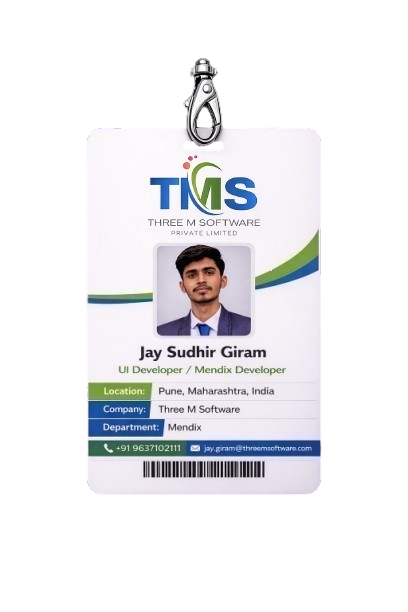
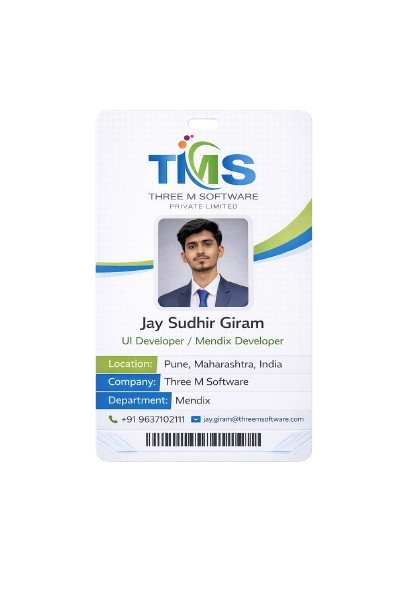
code update for the lanyard

Changed region(s): [[0.2059, 0.0931, 0.7941, 0.8072]]

diff --git a/src/app/layout/hero-lanyard/hero-lanyard.component.ts b/src/app/layout/hero-lanyard/hero-lanyard.component.ts
@@ -21,6 +21,7 @@ export class HeroLanyardComponent implements AfterViewInit {
   camera!: THREE.PerspectiveCamera
   renderer!: THREE.WebGLRenderer
   lanyardMaterial!: THREE.MeshStandardMaterial
+  triangle!: THREE.Mesh
   card!: THREE.Mesh
   cardGroup!: THREE.Group
   ropeLine!: THREE.Mesh
@@ -81,7 +82,7 @@ export class HeroLanyardComponent implements AfterViewInit {
 
     /* CARD */
 
-    const cardGeo = new THREE.BoxGeometry(2.4, 3.4, 0.04)
+    const cardGeo = new THREE.BoxGeometry(2.9, 3.4, 0.04)
 
     const texture = new THREE.TextureLoader().load(
       'assets/lanyard/card.png'
@@ -105,23 +106,25 @@ export class HeroLanyardComponent implements AfterViewInit {
     this.card = new THREE.Mesh(cardGeo, cardMat)
 
     this.cardGroup = new THREE.Group()
-
+    this.card.rotation.y = Math.PI
     this.cardGroup.add(this.card)
 
     // move card DOWN inside group so top becomes pivot
-    this.card.position.y = -1.4
+    this.card.position.set(0, -0.3, 0)
 
-    this.scene.add(this.cardGroup)
+    this.cardGroup.position.set(0, -1.2, 0.05)
 
     /* GLARE */
 
-    const glareGeo = new THREE.PlaneGeometry(1.7, 2.2)
+    const glareGeo = new THREE.PlaneGeometry(1.7, 2)
 
     const glareMat = new THREE.MeshBasicMaterial({
       color: 0xffffff,
       transparent: true,
-      opacity: 0.08,
+      opacity: 0.09,
       blending: THREE.AdditiveBlending
+
+
     })
 
     const glare = new THREE.Mesh(glareGeo, glareMat)
@@ -130,16 +133,51 @@ export class HeroLanyardComponent implements AfterViewInit {
     this.card.add(glare)
 
 
+    // 🔺 METAL TRIANGLE CONNECTOR
+
+    const triangleShape = new THREE.Shape()
+
+    triangleShape.moveTo(0, -0.3)      // 🔻 bottom tip
+    triangleShape.lineTo(-0.3, 0.25)   // left
+    triangleShape.lineTo(0.3, 0.25)    // right
+    triangleShape.lineTo(0, -0.3)      // close
+    const extrudeSettings = {
+      depth: 0.02,
+      bevelEnabled: true,
+      bevelThickness: 0.02,
+      bevelSize: 0.02,
+      bevelSegments: 2
+
+    }
+
+    const triangleGeo = new THREE.ShapeGeometry(triangleShape)
+
+    const metalMat = new THREE.MeshPhysicalMaterial({
+      color: 0xc0c0c0,
+      metalness: 1,
+      roughness: 0.25,
+      clearcoat: 1,
+      clearcoatRoughness: 0.1
+    })
+
+    this.triangle = new THREE.Mesh(triangleGeo, metalMat)
+    this.triangle.scale.set(0.7, 0.7, 0.7)
+
+    // add to scene
+    this.scene.add(this.triangle)
+    this.triangle.add(this.cardGroup)
+    this.triangle.rotation.z = Math.PI
+
   }
 
   initRope() {
 
     this.points = []
-  
+
     for (let i = 0; i <= this.segments; i++) {
-  
+
       const y = 2 - (i * this.segmentLength)
-  
+
       this.points.push({
         x: 0,
         y: y,
@@ -147,40 +185,45 @@ export class HeroLanyardComponent implements AfterViewInit {
         oldy: y
       })
     }
-  
+
     // ✅ CREATE FABRIC MATERIAL ONLY ONCE
     const loader = new THREE.TextureLoader()
 
     const texture = loader.load('assets/lanyard/lanyard-texture.png')
     const normalMap = loader.load('assets/lanyard/lanyard-normal.png')
-    
+
     texture.colorSpace = THREE.SRGBColorSpace
-    
+
     texture.wrapS = texture.wrapT = THREE.RepeatWrapping
     normalMap.wrapS = normalMap.wrapT = THREE.RepeatWrapping
-    
+
     texture.repeat.set(1, 3)
     normalMap.repeat.set(1, 10)
-    
+
     this.lanyardMaterial = new THREE.MeshPhysicalMaterial({
       map: texture,
       normalMap: normalMap,
-    
+
       normalScale: new THREE.Vector2(0.35, 0.35),
-    
+
       roughness: 0.85,
       metalness: 0.05,
-    
+
       clearcoat: 0.3,
       clearcoatRoughness: 0.6,
-    
+
       sheen: 1,                     // 🔥 FABRIC MAGIC
       sheenRoughness: 0.8,
       sheenColor: new THREE.Color(0xffffff),
-    
+
       side: THREE.DoubleSide
-    
+
     })
+
+    const ambient = new THREE.AmbientLight(0xffffff, 0.6)
+    this.scene.add(ambient)
+
+
   }
 
   updateMouse(event: MouseEvent) {
@@ -277,78 +320,96 @@ export class HeroLanyardComponent implements AfterViewInit {
     }
 
   }
-  
+
   updateRopeMesh() {
 
     const vertices: number[] = []
     const uvs: number[] = []
-    const width = 0.18
-  
-    for (let i = 0; i < this.points.length; i++) {
-  
-      const p = this.points[i]
-      const next = this.points[i + 1] || p
-  
+
+    // slightly thinner = more realistic
+    const baseWidth = 0.14
+
+    const curve = new THREE.CatmullRomCurve3(
+      this.points.map(p => new THREE.Vector3(p.x, p.y, 0)),
+      false,
+      'catmullrom',
+      0.9
+    )
+
+    const smoothPoints = curve.getPoints(80)
+
+    for (let i = 0; i < smoothPoints.length; i++) {
+
+      const p = smoothPoints[i]
+      const next = smoothPoints[i + 1] || p
+
       const dx = next.x - p.x
       const dy = next.y - p.y
-  
+
       const angle = Math.atan2(dy, dx)
-  
-      const offsetX = Math.sin(angle) * width
-      const offsetY = -Math.cos(angle) * width
-  
+
+      // ✅ VERY SUBTLE natural twist (not animated)
+      const twist = Math.sin(i * 0.1) * 0.08
+
+      const normalAngle = angle + Math.PI / 2
+
+      // ✅ slight width variation (feels organic)
+      const width = baseWidth * (1 - i * 0.002)
+
+      const offsetX = Math.cos(normalAngle + twist) * width
+      const offsetY = Math.sin(normalAngle + twist) * width
+
+      // ✅ NO fake depth (keep flat, let lighting do work)
       vertices.push(
         p.x - offsetX, p.y - offsetY, 0,
         p.x + offsetX, p.y + offsetY, 0
       )
-  
-      const t = i / (this.points.length - 1)
+
+      const t = i / (smoothPoints.length - 1)
       uvs.push(0, t)
       uvs.push(1, t)
     }
-  
+
     const geometry = new THREE.BufferGeometry()
-  
+
     geometry.setAttribute(
       'position',
       new THREE.Float32BufferAttribute(vertices, 3)
     )
-  
+
     geometry.setAttribute(
       'uv',
       new THREE.Float32BufferAttribute(uvs, 2)
     )
-  
+
     const indices: number[] = []
-  
-    for (let i = 0; i < this.points.length - 1; i++) {
-  
+
+    for (let i = 0; i < smoothPoints.length - 1; i++) {
       const base = i * 2
-  
+
       indices.push(
         base, base + 1, base + 2,
         base + 1, base + 3, base + 2
       )
     }
-  
+
     geometry.setIndex(indices)
     geometry.computeVertexNormals()
-  
-    // ✅ CREATE MESH ONLY ONCE
+
     if (!this.ropeLine) {
-  
+
       this.ropeLine = new THREE.Mesh(geometry, this.lanyardMaterial)
       this.scene.add(this.ropeLine)
-  
+
     } else {
-  
+
       this.ropeLine.geometry.dispose()
       this.ropeLine.geometry = geometry
-  
+
     }
   }
 
-  
+
   animate = () => {
 
     requestAnimationFrame(this.animate)
@@ -362,45 +423,47 @@ export class HeroLanyardComponent implements AfterViewInit {
     this.updateCard()
 
     this.renderer.render(this.scene, this.camera)
-    
+
 
   }
-
   updateCard() {
 
     const last = this.points[this.points.length - 1]
     const prev = this.points[this.points.length - 2]
-  
-    const ropeSmooth = 0.2
-  
-    this.smoothedRopeX += (last.x - this.smoothedRopeX) * ropeSmooth
-    this.smoothedRopeY += (last.y - this.smoothedRopeY) * ropeSmooth
-  
-    const followSpeed = 0.1
-  
-    this.cardAnchorX += (this.smoothedRopeX - this.cardAnchorX) * followSpeed
-    this.cardAnchorY += (this.smoothedRopeY - this.cardAnchorY) * followSpeed
-  
-    this.cardGroup.position.set(last.x, last.y, 0.1)
-  
-    let ropeAngle = Math.atan2(
+
+    // 🔺 TRIANGLE (keep as is)
+    // 🔺 TRIANGLE (same)
+    this.triangle.position.set(last.x, last.y, 0.1)
+
+    const ropeAngle = Math.atan2(
       last.x - prev.x,
       last.y - prev.y
     )
-  
-    ropeAngle *= 0.001
-  
-    const stiffness = 0.08
-    const damping = 0.90
-  
-    const force = (ropeAngle - this.cardAngle) * stiffness
-  
+
+    // smooth follow (not direct copy)
+    const targetTriangleAngle = ropeAngle * 0.01
+
+    this.triangle.rotation.z += (targetTriangleAngle - this.triangle.rotation.z) * 0.01
+
+    // 🪪 CARD SWING (FIXED)
+
+    // reduce rope influence heavily
+    const targetAngle = THREE.MathUtils.clamp(ropeAngle * 0.25, -0.35, 0.35)
+
+    // smoother + heavier feel
+    const stiffness = 0.035
+    const damping = 0.94
+
+    const force = (targetAngle - this.cardAngle) * stiffness
+
     this.cardVelocity += force
     this.cardVelocity *= damping
-  
+
     this.cardAngle += this.cardVelocity
-  
-    this.cardGroup.rotation.z = -this.cardAngle
-    this.cardGroup.rotation.x = 0.06
+
+    // apply rotation
+    // keep physics but reduce impact
+    this.cardGroup.rotation.z = -this.cardAngle * 0.15
+    this.cardGroup.rotation.x = 0.02
   }
 }

diff --git a/src/app/layout/content/content.component.ts b/src/app/layout/content/content.component.ts
@@ -21,6 +21,10 @@ export class ContentComponent implements OnInit {
   copyMessage = '';
   constructor(public state: PortfolioStateService) {}
 
+
+  get showTitle() {
+    return this.state.selectedSection()?.toLowerCase() !== 'home'
+  }
   openProject(project: any) {
  
     this.state.setItem(project);

diff --git a/src/app/layout/content/content.component.html b/src/app/layout/content/content.component.html
@@ -13,9 +13,9 @@
 
 </div>
 
-  <h2 class="text-lg font-semibold mb-4">
-    {{ state.selectedSection() | titlecase }}
-  </h2>
+<h2 *ngIf="showTitle" class="text-lg font-semibold mb-4">
+  {{ state.selectedSection() | titlecase }}
+</h2>
 <!-- HOME SECTION -->
 
   <!-- PROFILE SECTION -->
